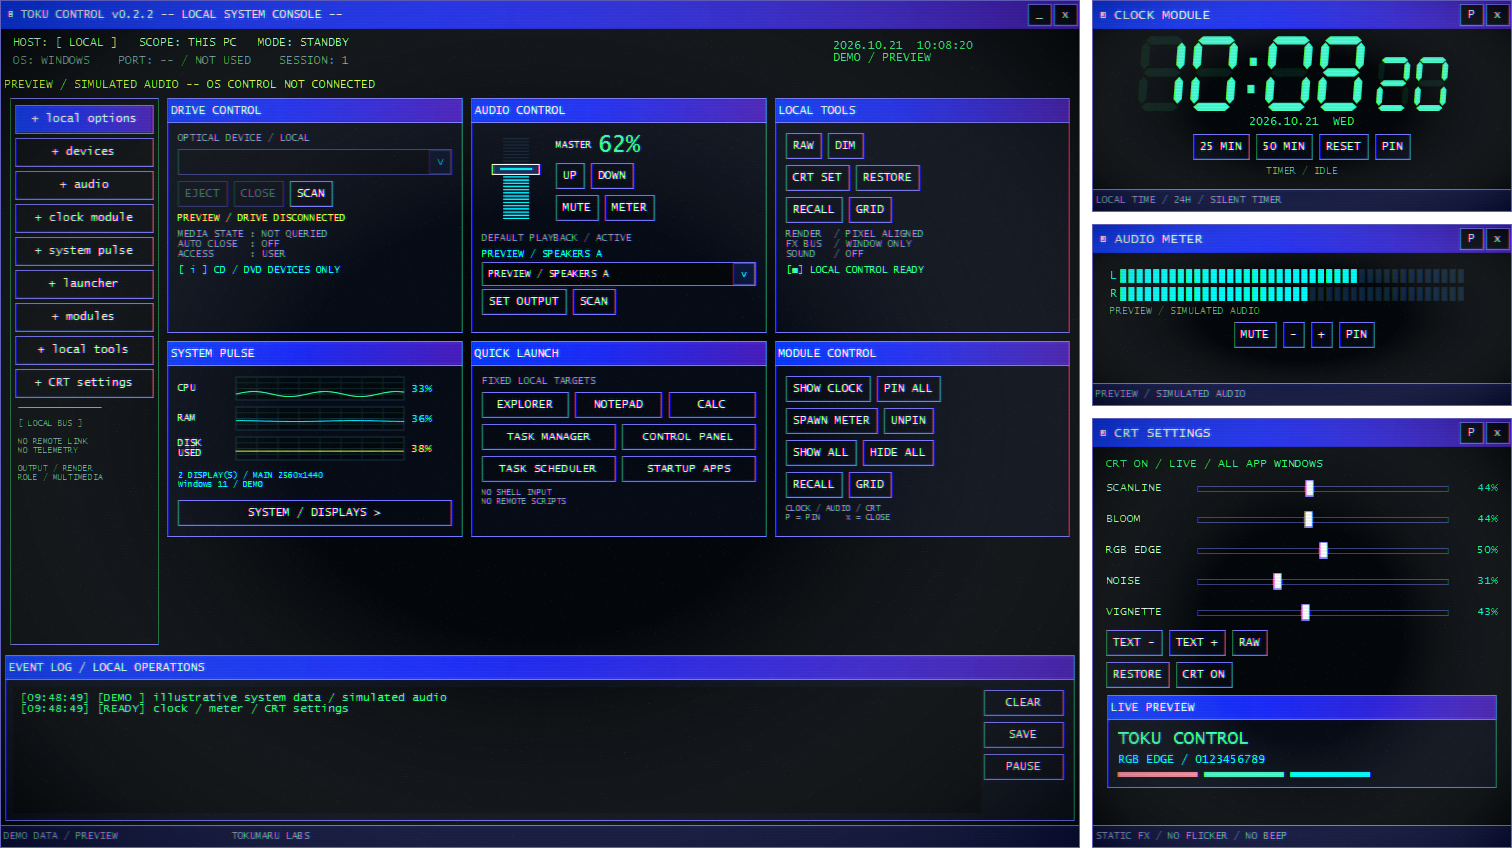
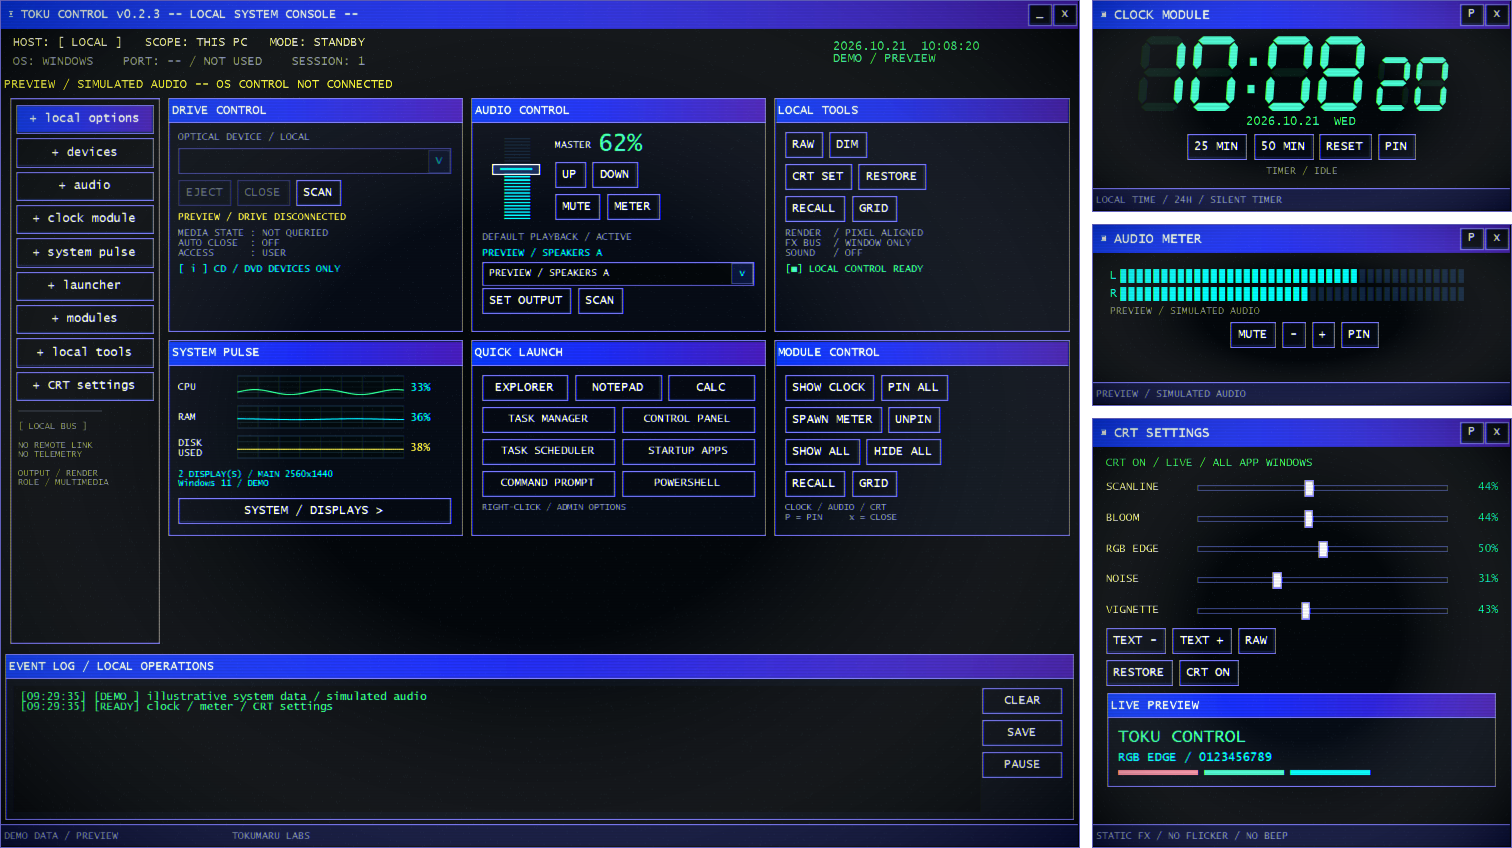
Add shell shortcuts and optional administrator launch

diff --git a/Program.cs b/Program.cs
@@ -51,6 +51,7 @@ public sealed partial class ConsoleWindow : RetroWindow
     readonly SettingsStore store;
     readonly Settings settings;
     readonly bool preview;
+    QuickLauncher launcher = new();
     readonly IAudioBackend audio;
     readonly IOutputRoutes routes;
     readonly OutputSwitcher outputSwitcher;
@@ -100,7 +101,7 @@ public sealed partial class ConsoleWindow : RetroWindow
     public long PeakSamples { get; private set; }
     public long SystemSamples { get; private set; }
 
-    public ConsoleWindow(SettingsStore store, bool preview) : base("main", "TOKU CONTROL v0.2.2 -- LOCAL SYSTEM CONSOLE --", 1080, 740, true)
+    public ConsoleWindow(SettingsStore store, bool preview) : base("main", "TOKU CONTROL v0.2.3 -- LOCAL SYSTEM CONSOLE --", 1080, 740, true)
     {
         this.store = store; this.preview = preview; settings = store.Load();
         routes = preview ? new PreviewOutputRoutes() : new WindowsOutputRoutes();
@@ -256,10 +257,10 @@ public sealed partial class ConsoleWindow : RetroWindow
     }
     UIElement BuildLaunch()
     {
-        var p = Retro.Col(Retro.Label("FIXED LOCAL TARGETS", Retro.Dim, 10));
+        var p = Retro.Col();
         var apps = new UniformGrid { Columns = 3 };
         foreach (string target in new[] { "EXPLORER", "NOTEPAD", "CALC" })
-            apps.Children.Add(Retro.Button(target, target + " を起動", () => Launch(target)));
+            apps.Children.Add(LaunchButton(target, target + " を起動"));
         p.Children.Add(apps);
         var windowsTools = new UniformGrid { Columns = 2 };
         foreach (var (target, hint) in new[]
@@ -267,15 +268,33 @@ public sealed partial class ConsoleWindow : RetroWindow
             ("TASK MANAGER", "タスク マネージャーを開く"),
             ("CONTROL PANEL", "従来のコントロール パネルを、すべての項目の一覧で開く"),
             ("TASK SCHEDULER", "Windowsのタスク スケジューラを開く"),
-            ("STARTUP APPS", "Windows設定の「アプリ > スタートアップ」を開く")
+            ("STARTUP APPS", "Windows設定の「アプリ > スタートアップ」を開く"),
+            ("COMMAND PROMPT", "コマンド プロンプトを開く"),
+            ("POWERSHELL", "Windows PowerShellを開く（Windows標準搭載版）")
         })
         {
-            var button = Retro.Button(target, hint, () => Launch(target));
+            var button = LaunchButton(target, hint);
             button.FontSize = 11;
             windowsTools.Children.Add(button);
         }
         p.Children.Add(windowsTools);
-        p.Children.Add(Retro.Label("NO SHELL INPUT\nNO REMOTE SCRIPTS", Retro.Dim, 9)); return p;
+        p.Children.Add(Retro.Label("RIGHT-CLICK / ADMIN OPTIONS", Retro.Dim, 9)); return p;
+    }
+    Button LaunchButton(string target, string hint)
+    {
+        bool supportsAdmin = QuickLauncher.SupportsAdmin(target);
+        var button = Retro.Button(target, hint + (supportsAdmin ? "。右クリック / Shift+F10 → 管理者として実行（UAC）" : ""), () => Launch(target));
+        if (supportsAdmin)
+        {
+            var menu = new ContextMenu();
+            var open = new MenuItem { Header = "開く / Open" };
+            open.Click += (_, _) => Launch(target);
+            var admin = new MenuItem { Header = "管理者として実行 / Run as administrator", ToolTip = "WindowsのUAC確認後、選択したツールを管理者として起動" };
+            admin.Click += (_, _) => Launch(target, true);
+            menu.Items.Add(open); menu.Items.Add(admin);
+            button.ContextMenu = menu;
+        }
+        return button;
     }
     UIElement BuildModules() => Retro.Col(
         Retro.Row(Retro.Button("SHOW CLOCK", "時計の独立小窓を表示", () => ShowModule("clock")), Retro.Button("PIN ALL", "自分の小窓だけ最前面固定", () => { foreach (var w in modules.Values) w.Topmost = true; SavePositions(); Log("OK", "modules pinned"); })),
@@ -291,28 +310,10 @@ public sealed partial class ConsoleWindow : RetroWindow
         var p = Retro.Col(Retro.Button("CLEAR", "画面内のログだけ消去", () => { logs.Clear(); RefreshLog(); }), Retro.Button("SAVE", "選択した場所へログを保存", SaveLog), pause);
         Grid.SetColumn(p, 1); g.Children.Add(p); return Retro.Box("EVENT LOG / LOCAL OPERATIONS", g);
     }
-    void Launch(string target)
+    void Launch(string target, bool administrator = false)
     {
-        try
-        {
-            if (preview) { Log("INFO", "preview / launcher disabled"); return; }
-            string explorer = Path.Combine(Environment.GetFolderPath(Environment.SpecialFolder.Windows), "explorer.exe");
-            ProcessStartInfo start = target switch
-            {
-                "EXPLORER" => new(explorer),
-                "NOTEPAD" => new(Path.Combine(Environment.SystemDirectory, "notepad.exe")),
-                "CALC" => new(Path.Combine(Environment.SystemDirectory, "calc.exe")),
-                "TASK MANAGER" => new(Path.Combine(Environment.SystemDirectory, "Taskmgr.exe")),
-                "CONTROL PANEL" => new(explorer) { ArgumentList = { "shell:ControlPanelFolder" } },
-                "TASK SCHEDULER" => new(Path.Combine(Environment.SystemDirectory, "mmc.exe")) { ArgumentList = { Path.Combine(Environment.SystemDirectory, "taskschd.msc") } },
-                "STARTUP APPS" => new("ms-settings:startupapps"),
-                _ => throw new ArgumentOutOfRangeException(nameof(target))
-            };
-            start.UseShellExecute = true;
-            using var process = Process.Start(start);
-            Log("OK", target.ToLowerInvariant() + " launch request accepted");
-        }
-        catch (Exception ex) { Log("ERROR", "launch failed / " + ex.GetType().Name); }
+        var result = launcher.Launch(target, preview, administrator);
+        Log(result.Level, result.Message);
     }
     void ScanDrives()
     {
@@ -704,11 +705,12 @@ public sealed partial class ConsoleWindow : RetroWindow
                 var content = new Rect(1, 25, panel.ActualWidth - 2, panel.ActualHeight - 26);
                 var buttons = Descendants<Button>(panel).ToArray();
                 var bounds = buttons.Select(b => new Rect(b.TranslatePoint(new Point(), panel), b.RenderSize)).ToArray();
-                return buttons.Length == 7 && buttons.All(b => b.IsVisible && b.ActualHeight >= 26)
+                return buttons.Length == 9 && buttons.All(b => b.IsVisible && b.ActualHeight >= 26)
                     && bounds.All(content.Contains)
                     && bounds.SelectMany((a, i) => bounds.Skip(i + 1).Select(b => !a.IntersectsWith(b))).All(v => v);
             }
             test["launcherHomeButtonsFit"] = LauncherFits();
+            test["launcherActions"] = CheckLauncherActions();
             SelectSection("launcher"); test["launcherExpandedButtonsFit"] = LauncherFits();
             Capture(this, Path.Combine(directory, "launcher.png")); SelectSection("local");
             var meter = modules["meter"]; meter.Hide(); var before = PeakSamples; await Task.Delay(300); test["hiddenMeterStopsSampling"] = before == PeakSamples; meter.Show();
@@ -740,7 +742,7 @@ public sealed partial class ConsoleWindow : RetroWindow
             await Task.Delay(2500); proc.Refresh(); test["meterVisibleCpuPercentOfMachine"] = (proc.TotalProcessorTime - start).TotalMilliseconds / watch.Elapsed.TotalMilliseconds / Environment.ProcessorCount * 100; test["workingSetMiB"] = proc.WorkingSet64 / 1048576.0;
             modules["meter"].Hide(); start = proc.TotalProcessorTime; watch.Restart(); await Task.Delay(2500); proc.Refresh(); test["meterHiddenCpuPercentOfMachine"] = (proc.TotalProcessorTime - start).TotalMilliseconds / watch.Elapsed.TotalMilliseconds / Environment.ProcessorCount * 100;
             test["peakSamples"] = PeakSamples; test["systemSamples"] = SystemSamples;
-            var required = new[] { "clockSingleton", "clockReopen", "clockPositionRestored", "meterReopen", "navigationFilters", "hiddenMeterStopsSampling", "minimizedStopsSystemSampling", "launcherHomeButtonsFit", "launcherExpandedButtonsFit", "launcherScaledButtonsFit", "launcherSmallButtonsFit" };
+            var required = new[] { "clockSingleton", "clockReopen", "clockPositionRestored", "meterReopen", "navigationFilters", "hiddenMeterStopsSampling", "minimizedStopsSystemSampling", "launcherHomeButtonsFit", "launcherExpandedButtonsFit", "launcherScaledButtonsFit", "launcherSmallButtonsFit", "launcherActions" };
             bool passed = required.All(key => test[key] is true) && test["systemPanelPassed"] is true && test["outputListRead"] is true && test["outputButtonFitsPanel"] is true && (!preview || new[] { "previewVolumeMute", "selectionDoesNotSwitch", "previewOutputSwitch", "previewOutputRestoresSavedLevel" }.All(key => test[key] is true));
             test["passed"] = passed;
             File.WriteAllText(Path.Combine(directory, "ui-checks.json"), JsonSerializer.Serialize(test, new JsonSerializerOptions { WriteIndented = true }));
@@ -780,6 +782,7 @@ static class Checks
             using var simulated = new PreviewAudio(); simulated.SetVolume(.37f); simulated.ToggleMute(); Check("mutePreservesLevel", simulated.Read().Volume == .37f && simulated.Read().Muted); Check("volumeClamp", simulated.SetVolume(5).Volume == 1);
             using var native = new CoreAudio(); var a = native.Read(); results["nativeRead"] = a; Check("nativeReadNoThrow", true);
             foreach (var test in RoutingChecks.Run().GetAwaiter().GetResult()) Check(test.Key, test.Value);
+            foreach (var test in LauncherChecks.Run()) Check(test.Key, test.Value);
             using var routes = new WindowsOutputRoutes(); results["nativeOutputs"] = routes.List();
             results["nativeDefaults"] = Enumerable.Range(0, 3).Select(routes.Default).ToArray();
             var probe = new SystemProbe(); probe.Read(); Thread.Sleep(1200); var p = probe.Read(); results["systemRead"] = p; Check("systemValuesValid", p.Cpu is >= 0 and <= 100 && p.Ram is >= 0 and <= 100 && p.Disk is >= 0 and <= 100);

diff --git a/LauncherChecks.cs b/LauncherChecks.cs
@@ -1,0 +1,96 @@
+using System.ComponentModel;
+using System.Diagnostics;
+using System.IO;
+using System.Windows;
+using System.Windows.Controls;
+
+namespace TokuControl;
+
+internal static class LauncherChecks
+{
+    internal static readonly string[] Targets = ["EXPLORER", "NOTEPAD", "CALC", "TASK MANAGER", "CONTROL PANEL", "TASK SCHEDULER", "STARTUP APPS", "COMMAND PROMPT", "POWERSHELL"];
+    internal static readonly string[] AdminTargets = ["NOTEPAD", "TASK MANAGER", "TASK SCHEDULER", "COMMAND PROMPT", "POWERSHELL"];
+
+    public static Dictionary<string, bool> Run()
+    {
+        var results = new Dictionary<string, bool>();
+        var requests = new List<ProcessStartInfo>();
+        var launcher = new QuickLauncher(requests.Add);
+        foreach (string target in Targets)
+        {
+            requests.Clear();
+            var normal = launcher.Launch(target, false);
+            results[target + " normal launch"] = normal.Level == "OK" && requests.Count == 1
+                && requests[0].UseShellExecute && requests[0].Verb == "";
+            requests.Clear();
+            var elevated = launcher.Launch(target, false, true);
+            bool supportsAdmin = AdminTargets.Contains(target);
+            results[target + " elevation policy"] = supportsAdmin
+                ? elevated.Level == "OK" && requests.Count == 1 && requests[0].Verb == "runas" && requests[0].UseShellExecute
+                : elevated.Level == "ERROR" && requests.Count == 0;
+            requests.Clear();
+            launcher.Launch(target, true); launcher.Launch(target, true, true);
+            results[target + " preview blocks both modes"] = requests.Count == 0;
+        }
+        var cmd = QuickLauncher.CreateStartInfo("COMMAND PROMPT");
+        var ps = QuickLauncher.CreateStartInfo("POWERSHELL");
+        results["shells use Windows executables"] = cmd.FileName == Path.Combine(Environment.SystemDirectory, "cmd.exe")
+            && ps.FileName == Path.Combine(Environment.SystemDirectory, "WindowsPowerShell", "v1.0", "powershell.exe")
+            && File.Exists(cmd.FileName) && File.Exists(ps.FileName);
+        results["shells open home without injected commands"] = new[] { cmd, ps }.All(info => info.ArgumentList.Count == 0
+            && info.Arguments == "" && info.WorkingDirectory == Environment.GetFolderPath(Environment.SpecialFolder.UserProfile));
+        results["classic panel target preserved"] = QuickLauncher.CreateStartInfo("CONTROL PANEL").ArgumentList.SequenceEqual(["shell:ControlPanelFolder"]);
+        results["scheduler target preserved"] = QuickLauncher.CreateStartInfo("TASK SCHEDULER", true).ArgumentList.SequenceEqual([Path.Combine(Environment.SystemDirectory, "taskschd.msc")]);
+        requests.Clear();
+        results["unknown target rejected"] = launcher.Launch("arbitrary.exe", false).Level == "ERROR" && requests.Count == 0;
+        int attempts = 0;
+        var cancelled = new QuickLauncher(_ => { attempts++; throw new Win32Exception(1223); }).Launch("COMMAND PROMPT", false, true);
+        results["UAC cancellation is informational without retry"] = attempts == 1 && cancelled.Level == "INFO" && cancelled.Message.Contains("cancelled");
+        attempts = 0;
+        var denied = new QuickLauncher(_ => { attempts++; throw new Win32Exception(5); }).Launch("POWERSHELL", false, true);
+        results["access denied is an error without retry"] = attempts == 1 && denied.Level == "ERROR";
+        results["failure does not poison later launches"] = launcher.Launch("POWERSHELL", false).Level == "OK";
+        return results;
+    }
+}
+
+public sealed partial class ConsoleWindow
+{
+    // Exercise the actual button and menu handlers with a recording process starter.
+    // Native capture must never open tools or request elevation on the desktop.
+    bool CheckLauncherActions()
+    {
+        var original = launcher;
+        var requests = new List<ProcessStartInfo>();
+        launcher = new QuickLauncher(requests.Add);
+        try
+        {
+            var buttons = Descendants<Button>(panels["launcher"]).ToArray();
+            if (!buttons.Select(b => (string)b.Content).SequenceEqual(LauncherChecks.Targets)) return false;
+            foreach (var button in buttons)
+            {
+                string target = (string)button.Content;
+                requests.Clear(); button.RaiseEvent(new RoutedEventArgs(Button.ClickEvent));
+                if (preview ? requests.Count != 0 : requests.Count != 1 || requests[0].Verb != "") return false;
+                bool admin = LauncherChecks.AdminTargets.Contains(target);
+                if ((button.ContextMenu != null) != admin) return false;
+                if (!admin) continue;
+                var menu = button.ContextMenu!;
+                if (menu.Items.Count != 2) return false;
+                foreach (int index in new[] { 0, 1 })
+                {
+                    requests.Clear();
+                    ((MenuItem)menu.Items[index]).RaiseEvent(new RoutedEventArgs(MenuItem.ClickEvent));
+                    if (preview ? requests.Count != 0 : requests.Count != 1
+                        || requests[0].Verb != (index == 1 ? "runas" : "")
+                        || requests[0].FileName != QuickLauncher.CreateStartInfo(target).FileName) return false;
+                }
+            }
+            launcher = new QuickLauncher(_ => throw new Win32Exception(1223));
+            var shell = buttons.Single(b => (string)b.Content == "COMMAND PROMPT");
+            ((MenuItem)shell.ContextMenu!.Items[1]).RaiseEvent(new RoutedEventArgs(MenuItem.ClickEvent));
+            return logs.Lines.Last().Contains(preview ? "preview / launcher disabled" : "launch cancelled");
+        }
+        finally { launcher = original; }
+    }
+}

diff --git a/QuickLauncher.cs b/QuickLauncher.cs
@@ -1,0 +1,62 @@
+using System.ComponentModel;
+using System.Diagnostics;
+using System.IO;
+
+namespace TokuControl;
+
+internal sealed class QuickLauncher
+{
+    readonly Action<ProcessStartInfo> start;
+
+    public QuickLauncher(Action<ProcessStartInfo>? start = null)
+        => this.start = start ?? (info => { using var process = Process.Start(info); });
+
+    // Shell/Settings targets may reuse an existing unelevated process. Only offer
+    // elevation for executables that support a separate administrator launch.
+    public static bool SupportsAdmin(string target)
+        => target is "COMMAND PROMPT" or "POWERSHELL" or "NOTEPAD" or "TASK MANAGER" or "TASK SCHEDULER";
+
+    public static ProcessStartInfo CreateStartInfo(string target, bool administrator = false)
+    {
+        if (administrator && !SupportsAdmin(target))
+            throw new ArgumentException("Administrator launch is unavailable for this target.", nameof(target));
+        string explorer = Path.Combine(Environment.GetFolderPath(Environment.SpecialFolder.Windows), "explorer.exe");
+        ProcessStartInfo info = target switch
+        {
+            "EXPLORER" => new(explorer),
+            "NOTEPAD" => new(Path.Combine(Environment.SystemDirectory, "notepad.exe")),
+            "CALC" => new(Path.Combine(Environment.SystemDirectory, "calc.exe")),
+            "TASK MANAGER" => new(Path.Combine(Environment.SystemDirectory, "Taskmgr.exe")),
+            "CONTROL PANEL" => new(explorer) { ArgumentList = { "shell:ControlPanelFolder" } },
+            "TASK SCHEDULER" => new(Path.Combine(Environment.SystemDirectory, "mmc.exe")) { ArgumentList = { Path.Combine(Environment.SystemDirectory, "taskschd.msc") } },
+            "STARTUP APPS" => new("ms-settings:startupapps"),
+            "COMMAND PROMPT" => new(Path.Combine(Environment.SystemDirectory, "cmd.exe")),
+            "POWERSHELL" => new(Path.Combine(Environment.SystemDirectory, "WindowsPowerShell", "v1.0", "powershell.exe")),
+            _ => throw new ArgumentOutOfRangeException(nameof(target))
+        };
+        info.UseShellExecute = true;
+        info.Verb = administrator ? "runas" : "";
+        if (target is "COMMAND PROMPT" or "POWERSHELL")
+            info.WorkingDirectory = Environment.GetFolderPath(Environment.SpecialFolder.UserProfile);
+        return info;
+    }
+
+    public (string Level, string Message) Launch(string target, bool preview, bool administrator = false)
+    {
+        if (preview) return ("INFO", "preview / launcher disabled");
+        string label = target.ToLowerInvariant() + (administrator ? " / administrator" : "");
+        try
+        {
+            start(CreateStartInfo(target, administrator));
+            return ("OK", label + " launch request accepted");
+        }
+        catch (Win32Exception ex) when (ex.NativeErrorCode == 1223)
+        {
+            return ("INFO", label + " launch cancelled");
+        }
+        catch (Exception ex)
+        {
+            return ("ERROR", label + " launch failed / " + ex.GetType().Name);
+        }
+    }
+}

diff --git a/VERIFICATION.md b/VERIFICATION.md
@@ -5,17 +5,27 @@ them is not a claim that every audio device, display layout or Windows build is 
 
 `verify.ps1` runs six reports:
 
-1. Service checks: settings, bounded log, simulated audio and output-routing behavior.
+1. Service checks: settings, bounded log, simulated audio, output-routing behavior and launcher requests/cancellation.
 2. Native UI capture: real audio/system reads without changing OS audio or drive state.
 3. Preview UI capture: operations against a simulated backend.
 4. Module checks: visibility, closing/recreation, pinning and module buttons.
 5. CRT checks: individual rendered pixel changes, RAW/restore/dim, state persistence.
 6. Layout checks: vertical-stack geometry, no overlap, restore/persistence and grouped moves.
 
-Native and preview UI captures also check that all seven Quick Launch buttons
+Native and preview UI captures also check that all nine Quick Launch buttons
 fit without overlap in the home/launcher views, scaled rendering and the small window.
-These geometry checks do not launch programs; native button launches require a
-separate desktop check.
+Button/menu wiring is exercised with a recording process starter: normal clicks,
+context-menu Open, administrator requests, preview blocking and UAC cancellation.
+Service checks also cover fixed Windows paths, shell working directories,
+unsupported elevation, access-denied failures and no automatic retries.
+These automated checks do not launch programs or approve UAC; native shell
+launches and actual UAC consent/credentials require a separate desktop check.
+
+For 0.2.3, both shell executable requests were also started on the development PC
+with temporary commands that recorded their working directory and exited. Both
+reported the user's home folder. The context menus were rendered and inspected.
+Actual UAC consent/credential entry and an elevated shell token were not exercised;
+administrator request construction and cancellation were checked with simulated starters.
 
 For 0.2.2, actual Quick Launch button clicks opened Task Manager, the classic
 All Control Panel Items view, Task Scheduler, and Settings > Apps > Startup on

diff --git a/README.md b/README.md
@@ -35,12 +35,22 @@ you trust; release assets include a SHA-256 checksum file.
 | Modules | `SHOW ALL`, `GRID` and `RECALL` place the three equal-width modules in a vertical column to the right of the main window. |
 | CRT | Live scanlines, bloom, RGB edge, noise and vignette. `RAW` disables effects; `RESTORE` restores their defaults. |
 | Drives | Optical-drive eject; tray close only where supported by the hardware. |
-| Launcher | Explorer, Notepad, Calculator, Task Manager, all classic Control Panel items, Task Scheduler and Startup Apps settings. The last four shortcuts are new in 0.2.2. |
+| Launcher | Explorer, Notepad, Calculator, Task Manager, all classic Control Panel items, Task Scheduler, Startup Apps settings, Command Prompt and Windows PowerShell. The two shells are new in 0.2.3. |
 | Event log | Operation results, with explicit export using `SAVE`. |
 
 Drag the main title bar to move visible, non-minimized modules with it. Each
 small window can also be moved independently. `P` / `PIN` keeps a module on top.
 Closing the main window exits the application; closing a module only closes that module.
+
+Click a Quick Launch button to open its tool normally. For **Command Prompt,
+Windows PowerShell, Notepad, Task Manager and Task Scheduler**, right-click the
+button (or focus it and press `Shift+F10`) and choose **Run as administrator**.
+Windows handles UAC consent or administrator credentials; cancelling leaves the
+console running. This choice applies to that launch only. The console itself
+does not request elevation. Explorer, Calculator, Control Panel and Startup Apps
+keep their normal Windows launch behavior and have no administrator menu.
+PowerShell opens the built-in **Windows PowerShell**, not a separately installed
+PowerShell 7. Both shells start in your user folder. Preview mode disables all launches.
 
 The full arrangement needs approximately **1512 × 848 logical pixels** of work
 area (more physical pixels at higher Windows scaling). If it cannot fit, the app

diff --git a/CHANGELOG.md b/CHANGELOG.md
@@ -1,5 +1,11 @@
 # Changelog
 
+## 0.2.3 - 2026-10-27
+
+- Quick Launch adds Command Prompt and the built-in Windows PowerShell, starting in the user's home folder.
+- Right-click or Shift+F10 opens an Open / Run as administrator menu for those shells, Notepad, Task Manager and Task Scheduler. Administrator launches use the Windows UAC flow; cancelling is logged without retrying.
+- All nine shortcuts fit the existing panel. Preview mode blocks normal and administrator launches.
+
 ## 0.2.2 - 2026-10-25
 
 - Quick Launch now opens Task Manager, all classic Control Panel items, Task Scheduler and Windows Startup Apps settings.
